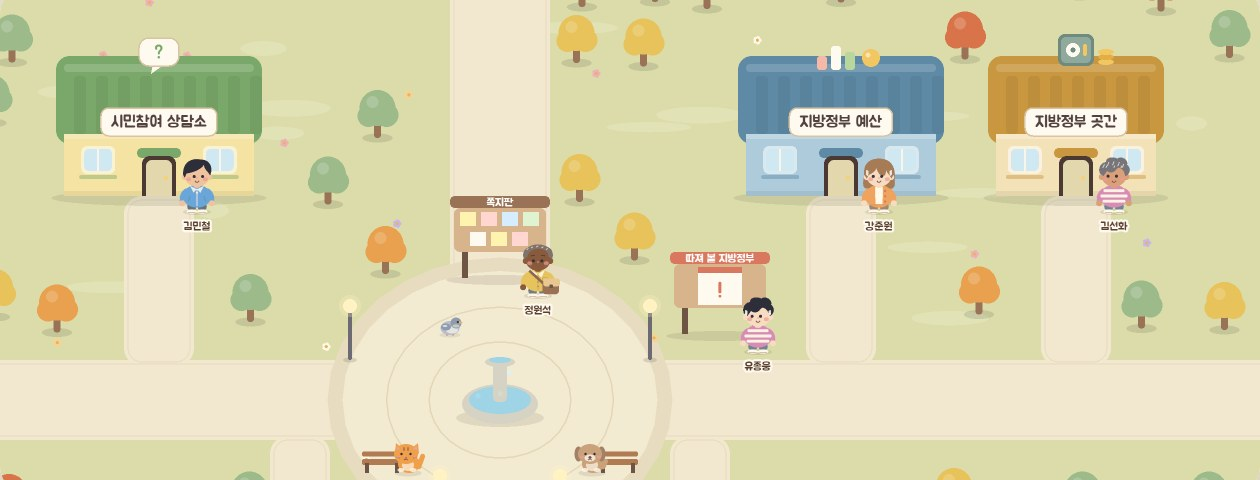
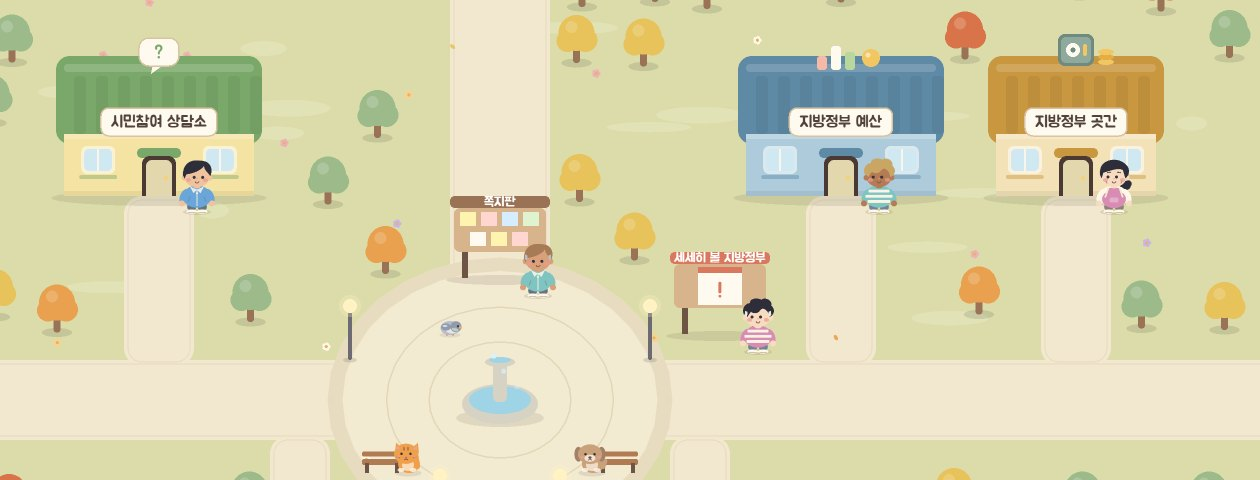
문 앞 사람 이름표 뺌 · 소개 그림 두 장 다시 찍음
실명을 지어낸 이름으로 바꿨다가 이름표째 걷었다(사람·모습은 그대로).
hero-wide·home-card 에 옛 실명 이름표와 옛 간판이 찍혀 있어 다시 찍었다.

diff --git a/game/village.ts b/game/village.ts
@@ -17,7 +17,7 @@ export type Box = { x: number; y: number; w: number; h: number };
 export type PlaceId = 'bus' | 'hub' | 'counsel' | 'dok' | 'finance' | 'board' | 'house' | 'tax' | 'works' | 'cards' | 'arcade';
 /**
  * 들어가는 곳 — box 는 부딪히는 앞벽(그림은 이 위로 지붕이 솟는다), door 는 문 앞에 서는 자리(여기 닿으면 판이 열린다).
- * keeper 는 문 앞 주민의 이름 — 시민행동 사람(사용자 10-15·10-26). 여럿이면 문 앞에 나란히(시민행동의 집 세 대표). 없으면 순우리말 이름(keeperName).
+ * keeper 는 문 앞 주민 — 사람 수와 모습(keeperLook)을 정한다. 이름은 화면에 안 나온다(11-09). 여럿이면 문 앞에 나란히. 없으면 nameFrom 으로 하나.
  */
 export type Place = { id: PlaceId; name: string; line: string; box: Box; door: Point; keeper?: string | string[] };
 
@@ -33,23 +33,22 @@ export const FOUNTAIN: Box = { x: 486, y: 770, w: 68, h: 52 };
 // 10-20 문제 카드도 살렸다(사용자 「일단 문제카드만 살려」) — 자리는 광장 오른쪽 길 들머리(아래 줄).
 // 광장 기준 오른쪽(동쪽) 길 = 지방정부 쪽(사용자 10-20 「광장 기준 오른쪽 길이 지방정부 쪽 내용」): 문제 카드 → 지방정부 예산 → 지방정부 곳간(10-26 「마을 곳간」 에서 이름만 바꿈).
 export const PLACES: Place[] = [
-  // 시민행동 사람이 문 앞을 지킨다(사용자 10-15, 10-26 다시 — 「시민센터는 채연하, 시민행동의 집은 김태일·김주일·유수훈 대표 셋, 유종웅은 세세히 볼 지방정부 앞,
-  // 운영위원(강준원·김선화·신우용·오지은·정원석·조민지·최경혜)은 적절히 — 다 넣을 필요는 없고, 사람과 대화하는 모든 곳에 이름을」). 운영위원 다섯을 이름 없던 문 앞에.
-  { id: 'hub', name: '시민센터', line: '시민증과 도장, 방명록은 여기서 봐요.', box: { x: 420, y: 230, w: 200, h: 100 }, door: { x: 520, y: 352 }, keeper: '채연하' },
-  { id: 'house', name: '시민행동의 집', line: '이 마을을 만든 함께하는 시민행동이에요.', box: { x: 96, y: 236, w: 150, h: 90 }, door: { x: 171, y: 348 }, keeper: ['김태일', '김주일', '유수훈'] },
-  { id: 'counsel', name: '시민참여 상담소', line: '참여예산이 궁금하면 여기 물어보세요.', box: { x: 84, y: 500, w: 190, h: 96 }, door: { x: 179, y: 618 }, keeper: '김민철' },
-  { id: 'finance', name: '지방정부 예산', line: '우리 지역 지방정부의 한 해 예산을 볼 수 있어요.', box: { x: 766, y: 500, w: 190, h: 96 }, door: { x: 861, y: 618 }, keeper: '강준원' },
+  // 문 앞 사람 이름 — 실제 시민행동 사람 이름을 쓰다가 11-09 지어낸 순우리말 이름으로 바꿨다(사용자 「이름 걍 다른 이름으로」). 사람 수·모습은 그대로.
+  { id: 'hub', name: '시민센터', line: '시민증과 도장, 방명록은 여기서 봐요.', box: { x: 420, y: 230, w: 200, h: 100 }, door: { x: 520, y: 352 }, keeper: '다온' },
+  { id: 'house', name: '시민행동의 집', line: '이 마을을 만든 함께하는 시민행동이에요.', box: { x: 96, y: 236, w: 150, h: 90 }, door: { x: 171, y: 348 }, keeper: ['한결', '가람', '미르'] },
+  { id: 'counsel', name: '시민참여 상담소', line: '참여예산이 궁금하면 여기 물어보세요.', box: { x: 84, y: 500, w: 190, h: 96 }, door: { x: 179, y: 618 }, keeper: '보람' },
+  { id: 'finance', name: '지방정부 예산', line: '우리 지역 지방정부의 한 해 예산을 볼 수 있어요.', box: { x: 766, y: 500, w: 190, h: 96 }, door: { x: 861, y: 618 }, keeper: '누리' },
   // 지방정부 곳간 — 지방정부 예산 바로 동쪽 옆(10-20 사용자 「마을 곳간 위치를 지방정부 예산 옆에」, 전엔 윗줄 시민센터 옆 빈 터). 쓰나(예산) 옆에 오나(곳간). 판은 places.ts openTax.
-  { id: 'tax', name: '지방정부 곳간', line: '우리 동네 살림 돈이 어디서 오는지 보여 줄게요.', box: { x: 1016, y: 500, w: 160, h: 96 }, door: { x: 1096, y: 618 }, keeper: '김선화' },
-  { id: 'board', name: '쪽지판', line: '지나간 주민들이 한 줄씩 남기고 가요.', box: { x: 474, y: 656, w: 92, h: 22 }, door: { x: 520, y: 702 }, keeper: '정원석' },
-  { id: 'dok', name: '밑 빠진 독상', line: '예산이 새는 사업에 주는 상이에요.', box: { x: 84, y: 980, w: 190, h: 96 }, door: { x: 179, y: 1098 }, keeper: '정남진' },
+  { id: 'tax', name: '지방정부 곳간', line: '우리 동네 살림 돈이 어디서 오는지 보여 줄게요.', box: { x: 1016, y: 500, w: 160, h: 96 }, door: { x: 1096, y: 618 }, keeper: '아라' },
+  { id: 'board', name: '쪽지판', line: '지나간 주민들이 한 줄씩 남기고 가요.', box: { x: 474, y: 656, w: 92, h: 22 }, door: { x: 520, y: 702 }, keeper: '윤슬' },
+  { id: 'dok', name: '밑 빠진 독상', line: '예산이 새는 사업에 주는 상이에요.', box: { x: 84, y: 980, w: 190, h: 96 }, door: { x: 179, y: 1098 }, keeper: '도담' },
   // 마을 공사터 — 나무에서 주운 동전을 넣으면 모두의 동전이 모여 다리·정자가 선다(사용자 10-14 동물의 숲 ⓑ). 판은 places.ts openWorks.
-  { id: 'works', name: '동전 모으는 곳', line: '동전이 모이면 마을에 새것이 생겨요.', box: { x: 150, y: 1236, w: 170, h: 84 }, door: { x: 235, y: 1342 }, keeper: '신우용' },
+  { id: 'works', name: '동전 모으는 곳', line: '동전이 모이면 마을에 새것이 생겨요.', box: { x: 150, y: 1236, w: 170, h: 84 }, door: { x: 235, y: 1342 }, keeper: '마루' },
   // 문제 카드 — 활동가가 매주·매달 올리는 사업 한 건에 반응하기(사용자 10-15 「한 달에 한 번이라도 들어올 명분」). 광장 오른쪽 길 들머리, 가로등 곁(10-20).
   // 10-26 「문제 카드」 에서 — 이름이 「문제」 라고 미리 판단해 버려서(반응에 「그럴 수 있다」 도 있다), 이웃 지방정부 예산·곳간과 한 줄로
   // 11-04 「따져 볼」 에서(사용자) — 「세세한」 은 지방정부를 꾸며 「꼼꼼한 지방정부」 로 읽혀서 「세세히 볼」
-  { id: 'cards', name: '세세히 볼 지방정부', line: '우리 동네 예산이 어디로 새고 있는지 함께 따져 봐요.', box: { x: 694, y: 712, w: 92, h: 22 }, door: { x: 740, y: 758 }, keeper: '유종웅' },
-  { id: 'bus', name: '한 바퀴 다시 걷기', line: '버스 타고 열다섯 동네를 다시 걸어요.', box: { x: 776, y: 1000, w: 170, h: 40 }, door: { x: 861, y: 1064 }, keeper: '오지은' },
+  { id: 'cards', name: '세세히 볼 지방정부', line: '우리 동네 예산이 어디로 새고 있는지 함께 따져 봐요.', box: { x: 694, y: 712, w: 92, h: 22 }, door: { x: 740, y: 758 }, keeper: '해솔' },
+  { id: 'bus', name: '한 바퀴 다시 걷기', line: '버스 타고 열다섯 동네를 다시 걸어요.', box: { x: 776, y: 1000, w: 170, h: 40 }, door: { x: 861, y: 1064 }, keeper: '노을' },
   // [나중에 살림: 오락실·부탁] 사용자 10-19 「오락실도 주석처리해놔. 지금하긴 애매해」 — 놀이 셋이 재미없어 다시 짤 때까지 건물째 숨긴다(판 arcade.ts·규칙·시험은 그대로).
   // 예산 오락실 — 사는 집이 아니라 들어가서 짧은 예산 놀이를 하는 집(사용자 10-17 「게임을 하는 집」). 동서 큰길을 따라 동쪽 끝. 판은 arcade.ts.
   // ⚠ 이 자리(1080,640)는 10-20 부터 지방정부 곳간 길이 지나간다 — 살릴 땐 자리를 새로 잡는다.
@@ -58,20 +57,18 @@ export const PLACES: Place[] = [
 
 /** 문 앞 주민들 — 맡은 사람이 없으면 건물마다 정해진 순우리말 이름 하나. */
 export const keepers = (id: PlaceId) => [PLACES.find(p => p.id === id)?.keeper ?? nameFrom(`npc:${id}`)].flat();
-/** 문 앞 주민 이름 — 판의 이름표·말 상자·부탁 목록이 같이 쓴다. 여럿이면 가운뎃점으로. */
-export const keeperName = (id: PlaceId) => keepers(id).join(' · ');
 /**
- * 시민행동 사람의 모습(10-26) — 사용자가 알려 준 대로 채연하는 여자, 김민철·세 대표는 남자 모습으로 정해 둔다(전엔 집마다 무작위라 반대로 보였다).
- * 유종웅·정남진은 원래 자리의 모습 그대로(「기존 사람들은 그대로」), 운영위원은 이름으로 무작위(「설명없이 일단 랜덤」).
+ * 문 앞 사람의 모습(10-26) — 시민센터는 여자, 상담소·시민행동의 집 셋은 남자 모습으로 정해 둔다(전엔 집마다 무작위라 반대로 보였다).
+ * 세세히 볼 지방정부·독상은 원래 자리의 모습 그대로(「기존 사람들은 그대로」), 나머지는 이름으로 무작위(「설명없이 일단 랜덤」).
  * 고른 번호 열 칸은 look.ts Pick — [기본 조합, 머리색, 옷 색, 피부, 색 넣기, 머리 모양, 옷, 안경, 장식, 섞는 색].
  */
 const STAFF_LOOK: Record<string, Pick | string> = {
-  채연하: [7, 0, 8, 1, 0, 7, 7, 0, 0, 0], // 어깨 단발·재킷
-  김민철: [4, 2, 1, 1, 0, 4, 4, 0, 0, 0], // 가르마·점퍼(파란 옷은 그대로)
-  김태일: [6, 3, 9, 1, 0, 6, 6, 0, 0, 0], // 넓은 이마·셔츠
-  김주일: [9, 0, 3, 2, 0, 8, 4, 0, 0, 0], // 짧은 머리·수염
-  유수훈: [4, 1, 10, 0, 0, 4, 7, 1, 0, 0], // 가르마·정장 재킷·안경
-  유종웅: 'npc:finance', 정남진: 'npc:dok',
+  다온: [7, 0, 8, 1, 0, 7, 7, 0, 0, 0], // 어깨 단발·재킷
+  보람: [4, 2, 1, 1, 0, 4, 4, 0, 0, 0], // 가르마·점퍼(파란 옷은 그대로)
+  한결: [6, 3, 9, 1, 0, 6, 6, 0, 0, 0], // 넓은 이마·셔츠
+  가람: [9, 0, 3, 2, 0, 8, 4, 0, 0, 0], // 짧은 머리·수염
+  미르: [4, 1, 10, 0, 0, 4, 7, 1, 0, 0], // 가르마·정장 재킷·안경
+  해솔: 'npc:finance', 도담: 'npc:dok',
 };
 export function keeperLook(name: string) {
   const look = STAFF_LOOK[name];

diff --git a/game/main.ts b/game/main.ts
@@ -18,7 +18,7 @@ import {
 import { openTown, openReply, openLetter, openLogin, openLoggedIn, openCompare, loginBox, type Person, type LoginOpts } from './town';
 import { openBus, openCounsel, openDok, openFinance, openHouse, openBoard, openTax, openWorks, openCuts, noteCard, noteView, loadMarks, rememberMine, loadPocket, savePocket, ACCESSORY_PRICE, type NoteActions } from './places';
 import { openArcade } from './arcade';
-import { PLACES, keeperName, placeName, dropsOn, kstDay, worksAt, NOTE_GAP_MS, type PlaceId, type Drop } from './village';
+import { PLACES, placeName, dropsOn, kstDay, worksAt, NOTE_GAP_MS, type PlaceId, type Drop } from './village';
 import { seasonOf, skyAt, CANVAS_TEXT, type Season } from './draw';
 import { providers, start as startLogin, finish as finishLogin, returning as returningFromLogin, arrivedFromKakao, justLoggedIn, takeLoginEmail, takeUnsaved, takeFresh, takeBack, keepSynced, syncNow, loginKey, current as loginNow, admin as loginAdmin, logout, PROVIDER_NAME } from './login';
 import { seasonAt, nextSeason, seasonById } from './seasons';
@@ -407,7 +407,7 @@ function enteredVillage() {
 
 /**
  * 마을 둘러보기(사용자 10-16 시민센터 안내 → 10-26 「집들도 시점 이동해서 설명」 — 두 곳만, 한 곳에 말 상자 하나·집마다 한 줄).
- * 걷기를 끝내고 언덕 아치로 처음 들어온 사람에게 한 번: 시민센터 → 동쪽 지방정부 셋 → 서쪽 상담소·독상. 말은 시민센터의 채연하(keeperName('hub')).
+ * 걷기를 끝내고 언덕 아치로 처음 들어온 사람에게 한 번: 시민센터 → 동쪽 지방정부 셋 → 서쪽 상담소·독상. 말은 이름표 없이(11-09 문 앞 이름을 뺐다).
  * 예전 「마을 입구 로그인 판」(들어오자마자 로그인 요구)은 지웠다 — 사용자 「마을 입구 로그인판은 그럼 지워」, 같은 말을 두 번 하게 돼서.
  */
 const TOUR_LINE: Partial<Record<PlaceId, string>> = { // 글은 사용자 10-26 확정(세세히 볼 지방정부만 사용자 글, 나머지는 Claude 초안 그대로)
@@ -421,7 +421,6 @@ function hubGuide() {
   if (villageStart !== 'gate' || shell.querySelector('.t-panel')) return;
   try { if (gameStorage.getItem(HUB_GUIDE)) return; gameStorage.setItem(HUB_GUIDE, '1'); } catch { /* 다음 입장에 다시 안내 */ }
   villageGuiding = true;
-  const guide = keeperName('hub');
   const groups: PlaceId[][] = [['hub'], ['finance', 'tax', 'cards'], ['counsel', 'dok']];
   const last = groups.length - 1;
   const stop = (i: number) => {
@@ -432,7 +431,7 @@ function hubGuide() {
         : loginNow() ? `${placeName('hub')}에서 내 시민증과 도장을 볼 수 있어요.` // 이미 로그인한 사람에게 「로그인하면」 은 틀린 말(10-26)
           : `${placeName('hub')}에서 로그인하면 기록이 남고 다른 기기에서도 이어할 수 있어요.`; // 문구 사용자 10-20
       const next = () => { if (i < last) stop(i + 1); else { villageGuiding = false; village?.endTour(); } };
-      ui.villageNotice(guide, text, [{ label: i < last ? '다음' : '둘러보기 마치기', run: next }]);
+      ui.villageNotice('', text, [{ label: i < last ? '다음' : '둘러보기 마치기', run: next }]);
     });
   };
   stop(0);
@@ -486,7 +485,7 @@ function picked(tree: number, kind: Drop) {
   savePocket(pocket);
   ui.villagePocket(pocket, toWorks);
   // 첫 동전 — 공사터 주민이 넣는 곳을 알려 준다(한 번만). 「나중에」 해도 위 띠 동전을 누르면 공사터로 간다.
-  if (first) ui.villageNotice(keeperName('works'), `동전을 주웠네요! 「동전 모으는 곳」 에 넣으면 모두의 동전과 모여 ${josa(worksAt(villageView?.coins ?? pocket.given).now?.name ?? '새것', '이', '가')} 지어져요.`,
+  if (first) ui.villageNotice('', `동전을 주웠네요! 「동전 모으는 곳」 에 넣으면 모두의 동전과 모여 ${josa(worksAt(villageView?.coins ?? pocket.given).now?.name ?? '새것', '이', '가')} 지어져요.`,
     [{ label: '넣으러 가기', run: toWorks }, { label: '나중에' }]);
 }
 // ── 마을 부탁(10-17) — quests.ts 규칙(하루 셋·닷새, 그날 셋을 다 해야 다음 날), 해낸 것은 이 기기에. 하루치를 다 하면 액세서리(look.ts REWARDS) ──

diff --git a/game/scenes/VillageScene.ts b/game/scenes/VillageScene.ts
@@ -17,7 +17,7 @@ import Phaser from 'phaser';
 import { FEEL } from '../feel';
 import { alongTrail, distance, rollBall, type Point } from '../room';
 import { PLACES, keepers, keeperLook, SPAWN, PITCH, GOAL, VILLAGE_W, VILLAGE_H, CROWD_SHOW, PAVILION_SEAT, walkVillage, findPath, placeAt, wanderSpot, worksAt, scored, setBuilt, type PlaceId, type Drop, type WorkId, type WorksState } from '../village';
-import { textRes, Dude, lookFrom, toLook, nameTag, drawVillage, noteTag, dust, tapRing, flee, hearts, sparkle, confetti, dropArt, skyAt, facePhoto, ball as makeBall, type Ball, type VillageArt, type Season } from '../draw';
+import { textRes, Dude, lookFrom, toLook, drawVillage, noteTag, dust, tapRing, flee, hearts, sparkle, confetti, dropArt, skyAt, facePhoto, ball as makeBall, type Ball, type VillageArt, type Season } from '../draw';
 import { rng, type Pick } from '../look';
 import type { Neighbor } from '../profile';
 import type { PublicNote, VillageView } from '../api';
@@ -66,7 +66,7 @@ export class VillageScene extends Phaser.Scene {
   private art!: VillageArt;
   private buddy?: Dude;
   private trail: Point[] = [];
-  private keepers: { dude: Dude; at: Point; tag?: Phaser.GameObjects.Text }[] = [];
+  private keepers: { dude: Dude; at: Point }[] = [];
   /** 부탁하는 주민(quests.ts) — 「!」 는 아직 안 들어준 부탁만. talking = 지금 말 건 주민(멀어져야 또 연다). */
   private errands = new Map<string, { dude: Dude; at: Point; mark?: Phaser.GameObjects.Container }>();
   private talking?: string;
@@ -110,8 +110,8 @@ export class VillageScene extends Phaser.Scene {
     // 문 앞 주민 — 문 오른쪽에 서서 나를 본다. 판 안의 한마디와 같은 생김새(village.ts keeperLook). 여럿이면 문 왼쪽부터 나란히(시민행동의 집 세 대표).
     for (const place of PLACES) keepers(place.id).forEach((name, i, all) => {
       const at = { x: place.door.x + (all.length > 1 ? [-44, 40, 90][i] : 38), y: place.door.y - 6 };
-      const tag = place.keeper ? nameTag(this, at.x, at.y + 14, name, dpr) : undefined; // 맡은 사람 이름(10-15)
-      this.keepers.push({ dude: new Dude(this, keeperLook(name), at.x, at.y).place(at), at, tag });
+      // 이름표는 없다(사용자 11-09 「빼줘」 — 실명을 뺀 뒤 지어낸 이름은 하는 일이 없어서). name 은 모습을 고르는 데만 쓴다.
+      this.keepers.push({ dude: new Dude(this, keeperLook(name), at.x, at.y).place(at), at });
     });
     this.ball = makeBall(this, PITCH.x + PITCH.w / 2, PITCH.y + PITCH.h / 2);
     cam.startFollow(this.player.root, true, 0.14, 0.14);
@@ -271,7 +271,7 @@ export class VillageScene extends Phaser.Scene {
     const view = this.cameras.main.worldView, m = 90;
     this.art.cull(view);
     const seen = (x: number, y: number) => x > view.x - m && x < view.right + m && y > view.y - m && y < view.bottom + m + 60;
-    for (const { dude, at, tag } of this.keepers) { const on = seen(at.x, at.y); dude.root.setVisible(on); tag?.setVisible(on); }
+    for (const { dude, at } of this.keepers) dude.root.setVisible(seen(at.x, at.y));
     for (const { dude, at, mark } of this.errands.values()) { const on = seen(at.x, at.y); dude.root.setVisible(on); mark?.setVisible(on); }
     for (const folk of this.folks.values()) { const on = seen(folk.at.x, folk.at.y); folk.dude.root.setVisible(on); folk.mark?.setVisible(on); }
     for (const { pet } of this.art.pets) pet.root.setVisible(seen(pet.anchor.x, pet.anchor.y));

diff --git a/game/draw.ts b/game/draw.ts
@@ -1081,10 +1081,7 @@ const FONT = '"Jua","Apple SD Gothic Neo","Malgun Gothic",system-ui,sans-serif';
  * (10-15 「상담소·독상 간판 한 글자가 볼드 처리가 안 된 듯」 — 「시민참여」 의 「참」. 전엔 「마을」 두 글자의 조각만 받았다).
  * 간판에 새 글자를 쓰면 여기에도 넣는다 — 개발판은 빠진 글자를 콘솔에 알린다(label).
  */
-export const CANVAS_TEXT = [...PLACES.map(p => p.name + [p.keeper ?? []].flat().join('')), ...WORKS.map(w => w.name), VILLAGE_NAME, '버스 작은 운동장 동전 다음 공사 준비 중 완성! ? 0123456789·/'].join('');
-/** 사람 이름표 — 발밑에 작게, 밝은 테두리를 둘러 바닥 위에서도 읽히게(문 앞을 맡은 시민행동 사람, 10-15). */
-export const nameTag = (scene: Scene, x: number, y: number, text: string, dpr: number) =>
-  label(scene, x, y, text, 11, dpr, '#5b402e').setStroke('#fffaf0', 4).setDepth(y + 2);
+export const CANVAS_TEXT = [...PLACES.map(p => p.name), ...WORKS.map(w => w.name), VILLAGE_NAME, '버스 작은 운동장 동전 다음 공사 준비 중 완성! ? 0123456789·/'].join('');
 /**
  * 캔버스 글씨를 그리는 촘촘함 — 기기 화소 배수를 올림하되 2 아래로는 안 내린다. 캔버스 글씨는 다 이걸 쓴다(시험 game-village 「캔버스 글씨」 가 지킨다).
  * 전엔 dpr 그대로라 PC(1배)·윈도 125%·150% 화면에서 적은 화소로 그린 글씨가 반 칸씩 어긋나 뭉개졌다(10-20 사용자 「글씨체가 또렷하지 않으면 안 돼」).

diff --git a/game/places.ts b/game/places.ts
@@ -10,7 +10,7 @@
 */
 import { panelShell, avatar, el, btn, placeChooser, loadPlaces, placeTitle, loginInvite, noteForm, type LoginOpts } from './town';
 import { DONATE_URL, typeOut, shareButtons } from './ui';
-import { PLACES, keepers, keeperLook, keeperName, placeName, COIN_DAY_MAX, WORKS, worksAt, type PlaceId } from './village';
+import { PLACES, keepers, keeperLook, placeName, COIN_DAY_MAX, WORKS, worksAt, type PlaceId } from './village';
 import { toLook, REWARDS, fullPick, type Pick } from './look';
 import { josa, loadRegion, touched, POCKET_KEY, type Neighbor } from './profile';
 import { PRIVACY_URL, CONTACT } from './contact';
@@ -47,7 +47,7 @@ export function placePanel(shell: HTMLElement, id: PlaceId, onClose: () => void)
   const place = PLACES.find(p => p.id === id)!;
   const { panel, close } = panelShell(shell, onClose, '마을로');
   const npc = el('div', 'v-npc'), said = el('p', 'v-said');
-  npc.append(...keepers(id).map(name => avatar(keeperLook(name))), el('span', 'g-name', keeperName(id)), said);
+  npc.append(...keepers(id).map(name => avatar(keeperLook(name))), said); // 이름표 없이(11-09)
   npc.onclick = () => typeOut(said, place.line); // 다시 누르면 한 번 더 말한다
   panel.append(el('h2', '', placeName(id)), npc);
   typeOut(said, place.line);
